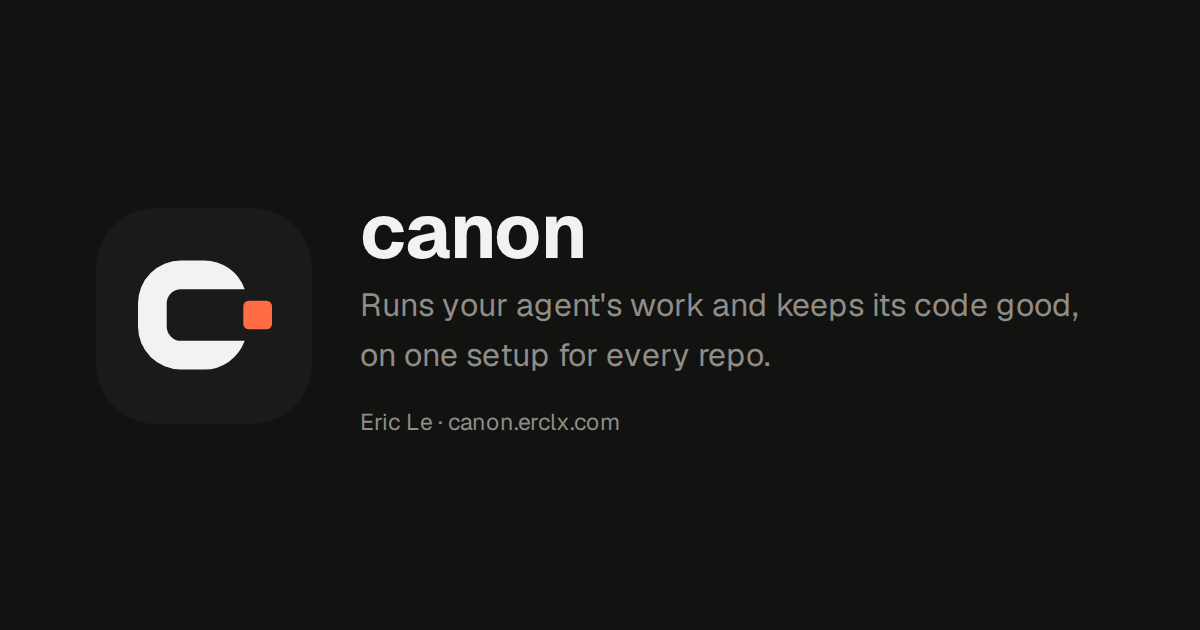
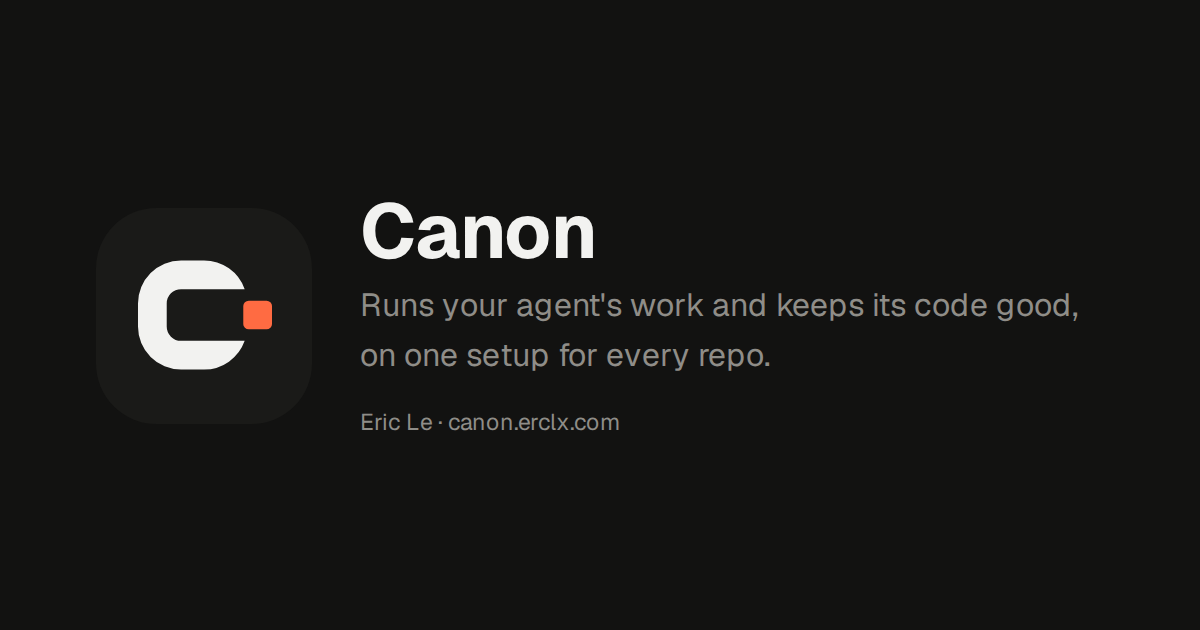
feat(web): name the share card Canon and re-capture both themes

Changed region(s): [[0.3083, 0.3016, 0.4933, 0.4222]]

diff --git a/web/src/content/copy.ts b/web/src/content/copy.ts
@@ -26,8 +26,8 @@ const DOCS = `${REPO}/tree/main/docs`
 const ORIGIN = 'https://canon.erclx.com'
 
 export const site = {
-  /** The lowercase wordmark the social card and its alt text draw, so a change re-captures the card. */
-  name: 'canon',
+  /** The name the social card and its alt text draw, so a change re-captures the card. */
+  name: 'Canon',
   /**
    * The host, which `og:site_name` reads. LinkedIn prints it under the share
    * title, which already reads `title`, so the name there would show twice.
